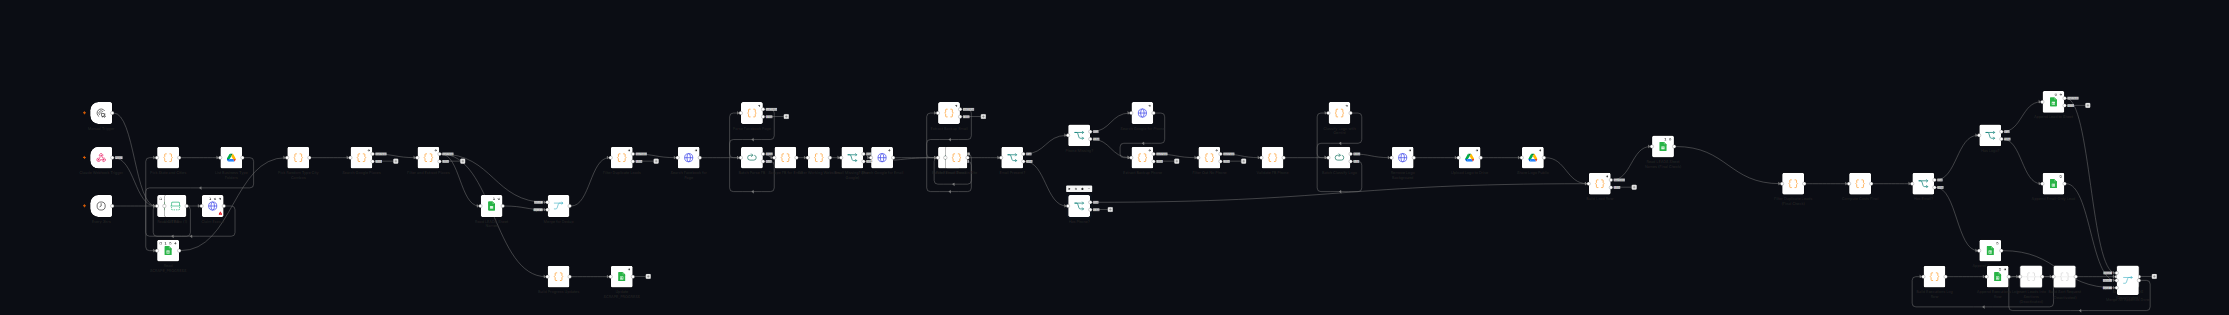
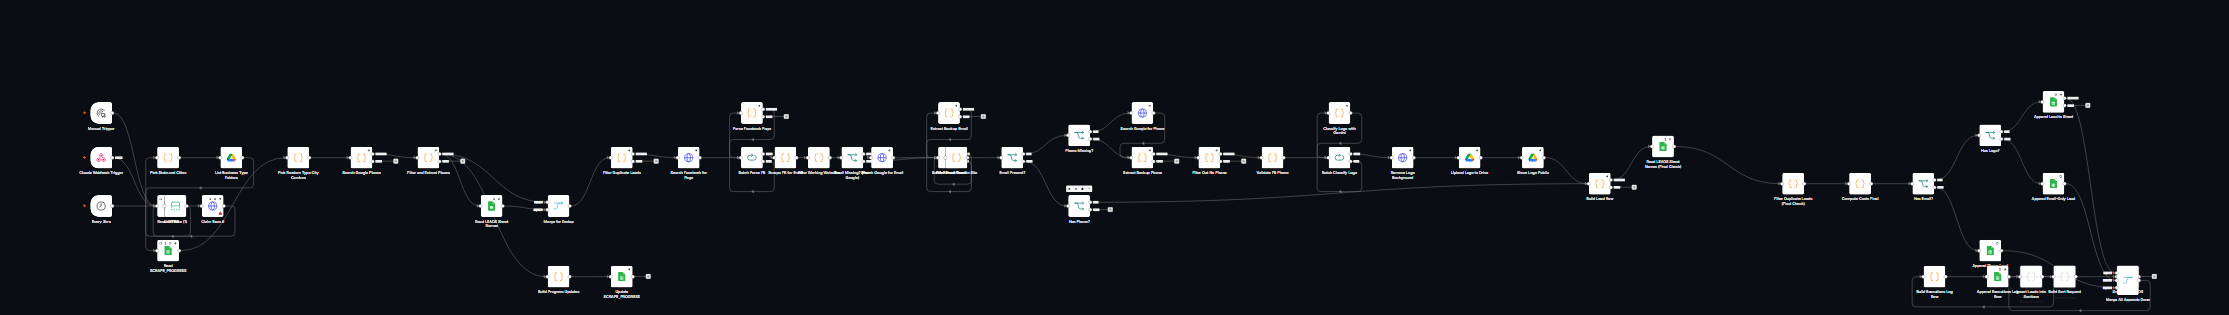
docs: white workflow node titles, blur sender inbox labels (PII), inline leads table in README

diff --git a/README.md b/README.md
@@ -88,7 +88,23 @@ Per-lead tracking, live in the Sheet — template rotation, send time, **open ti
 
 ![Lead tracking columns](docs/screenshots/sheet/tracking.jpg)
 
-**Browse a sample →** [`docs/sheet/full-leads-sample.csv`](docs/sheet/full-leads-sample.csv) — GitHub renders it as a sortable, searchable table, so you can walk the FULL LEADS tab row by row: scrape → score → filter → generate → email → track. Sanitized showcase data (fictional businesses, `555` numbers, placeholder place IDs); no real lead is exposed.
+A sanitized slice of the **FULL LEADS** tab — one row per business, walking the lifecycle `scraped → scored → filtered → generated → emailed → tracked`. Showcase data only (fictional businesses, `555` numbers); no real lead is exposed.
+
+| Business | Vertical | Score | Status | Site | Email sent | Opened | Reply / Call |
+|---|---|:--:|---|---|---|---|---|
+| Coastal Motors Auto Care | Auto Repair | 4 | converted | [live](https://auto-repair-t-1.vercel.app) | 06/13 10:54 | 06/13 13:02 | ✅ called 06/20 |
+| Summit Auto Works | Auto Repair | 4 | replied | [live](https://auto-repair-t-2.vercel.app) | 06/13 10:54 | 06/14 16:49 | 💬 replied +1d |
+| Redline Garage | Auto Repair | 3 | site_ready | [live](https://auto-repair-t-3.vercel.app) | 06/13 10:56 | 06/13 14:56 | — |
+| Voltage Electric | Electricians | 4 | emailed | [live](https://electricians-t-1.vercel.app) | 06/13 10:56 | 06/13 11:45 | — |
+| Bright Spark Electric | Electricians | 4 | emailed | [live](https://electricians-t-2.vercel.app) | 06/13 10:58 | — | — |
+| Current Masters | Electricians | 3 | site_ready | [live](https://electricians-t-3.vercel.app) | 06/13 11:02 | 06/13 12:33 | — |
+| Tidewater Plumbing | Plumbers | 4 | converted | [live](https://plumbers-t-1.vercel.app) | 06/13 11:04 | 06/13 15:20 | ✅ called 06/18 |
+| Blue Valve Plumbing | Plumbers | 3 | emailed | [live](https://plumbers-t-2.vercel.app) | 06/13 11:06 | 06/13 18:02 | — |
+| Cascade Rooter | Plumbers | 3 | emailed | [live](https://plumbers-t-3.vercel.app) | 06/13 11:08 | — | — |
+| Harbor Point Automotive | Auto Repair | 4 | approved | *(queued)* | — | — | — |
+| Lumen Electrical Co | Electricians | 4 | approved | *(queued)* | — | — | — |
+| Copperline Plumbing | Plumbers | 4 | generating | *(building)* | — | — | — |
+| Mesa Auto Clinic | Auto Repair | 1 | skipped — already has a site | — | — | — | — |
 
 ---
 
